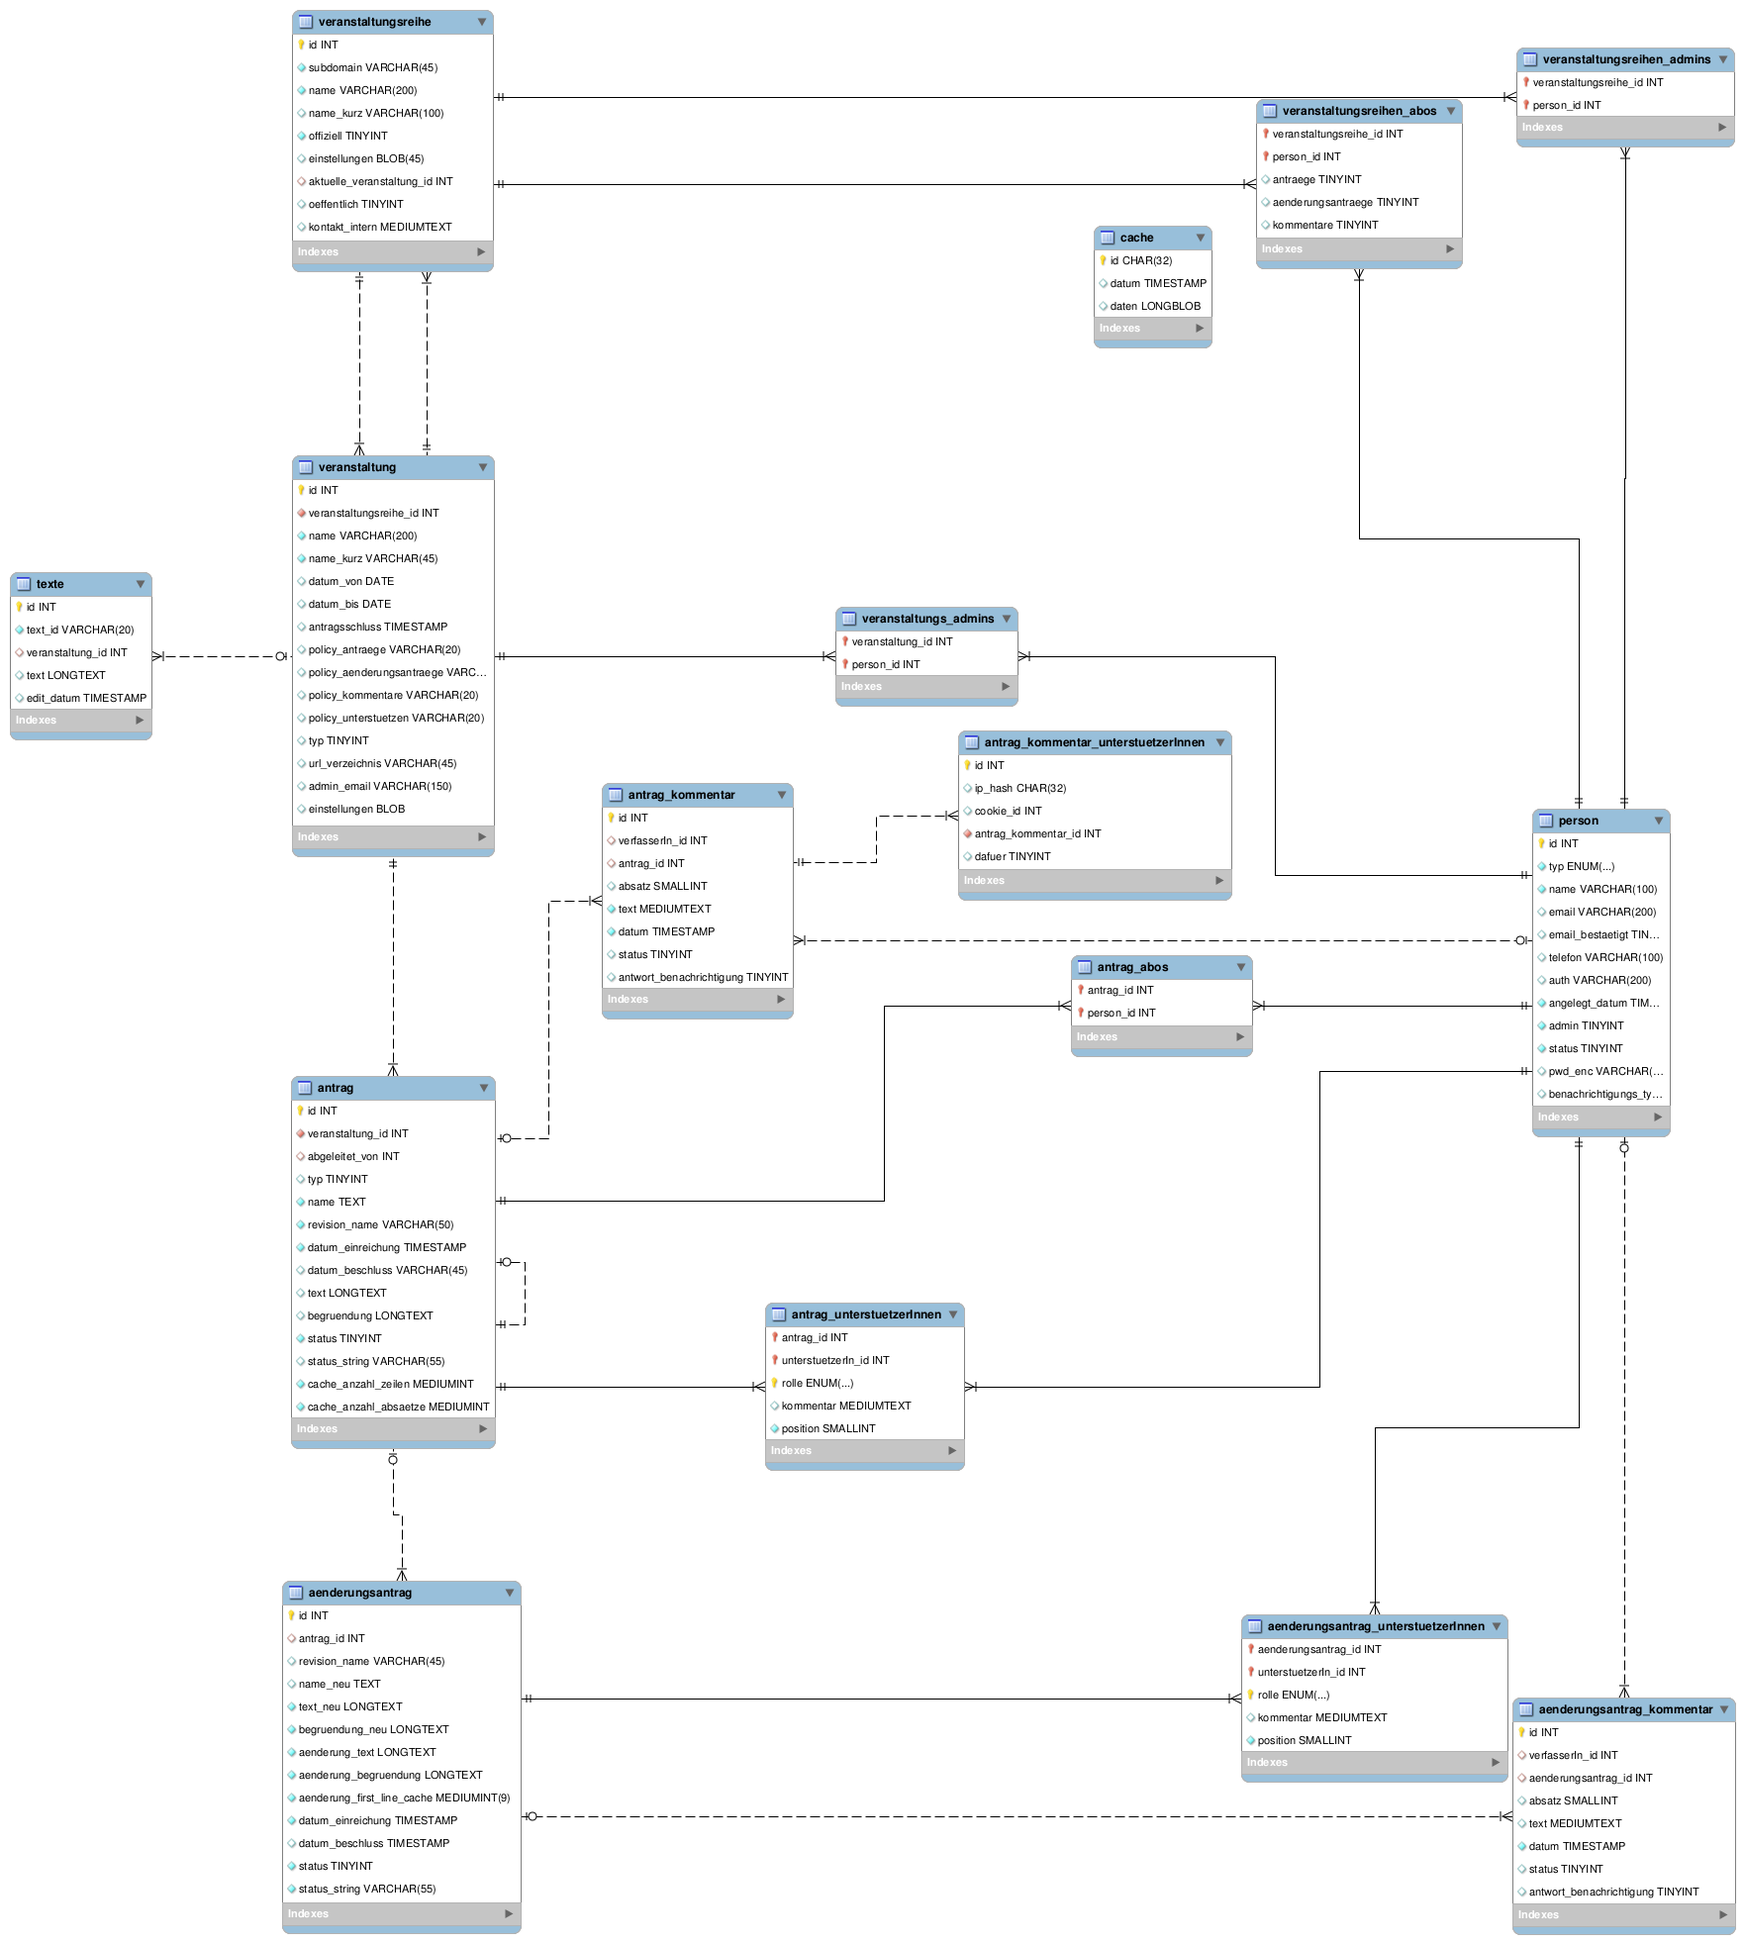
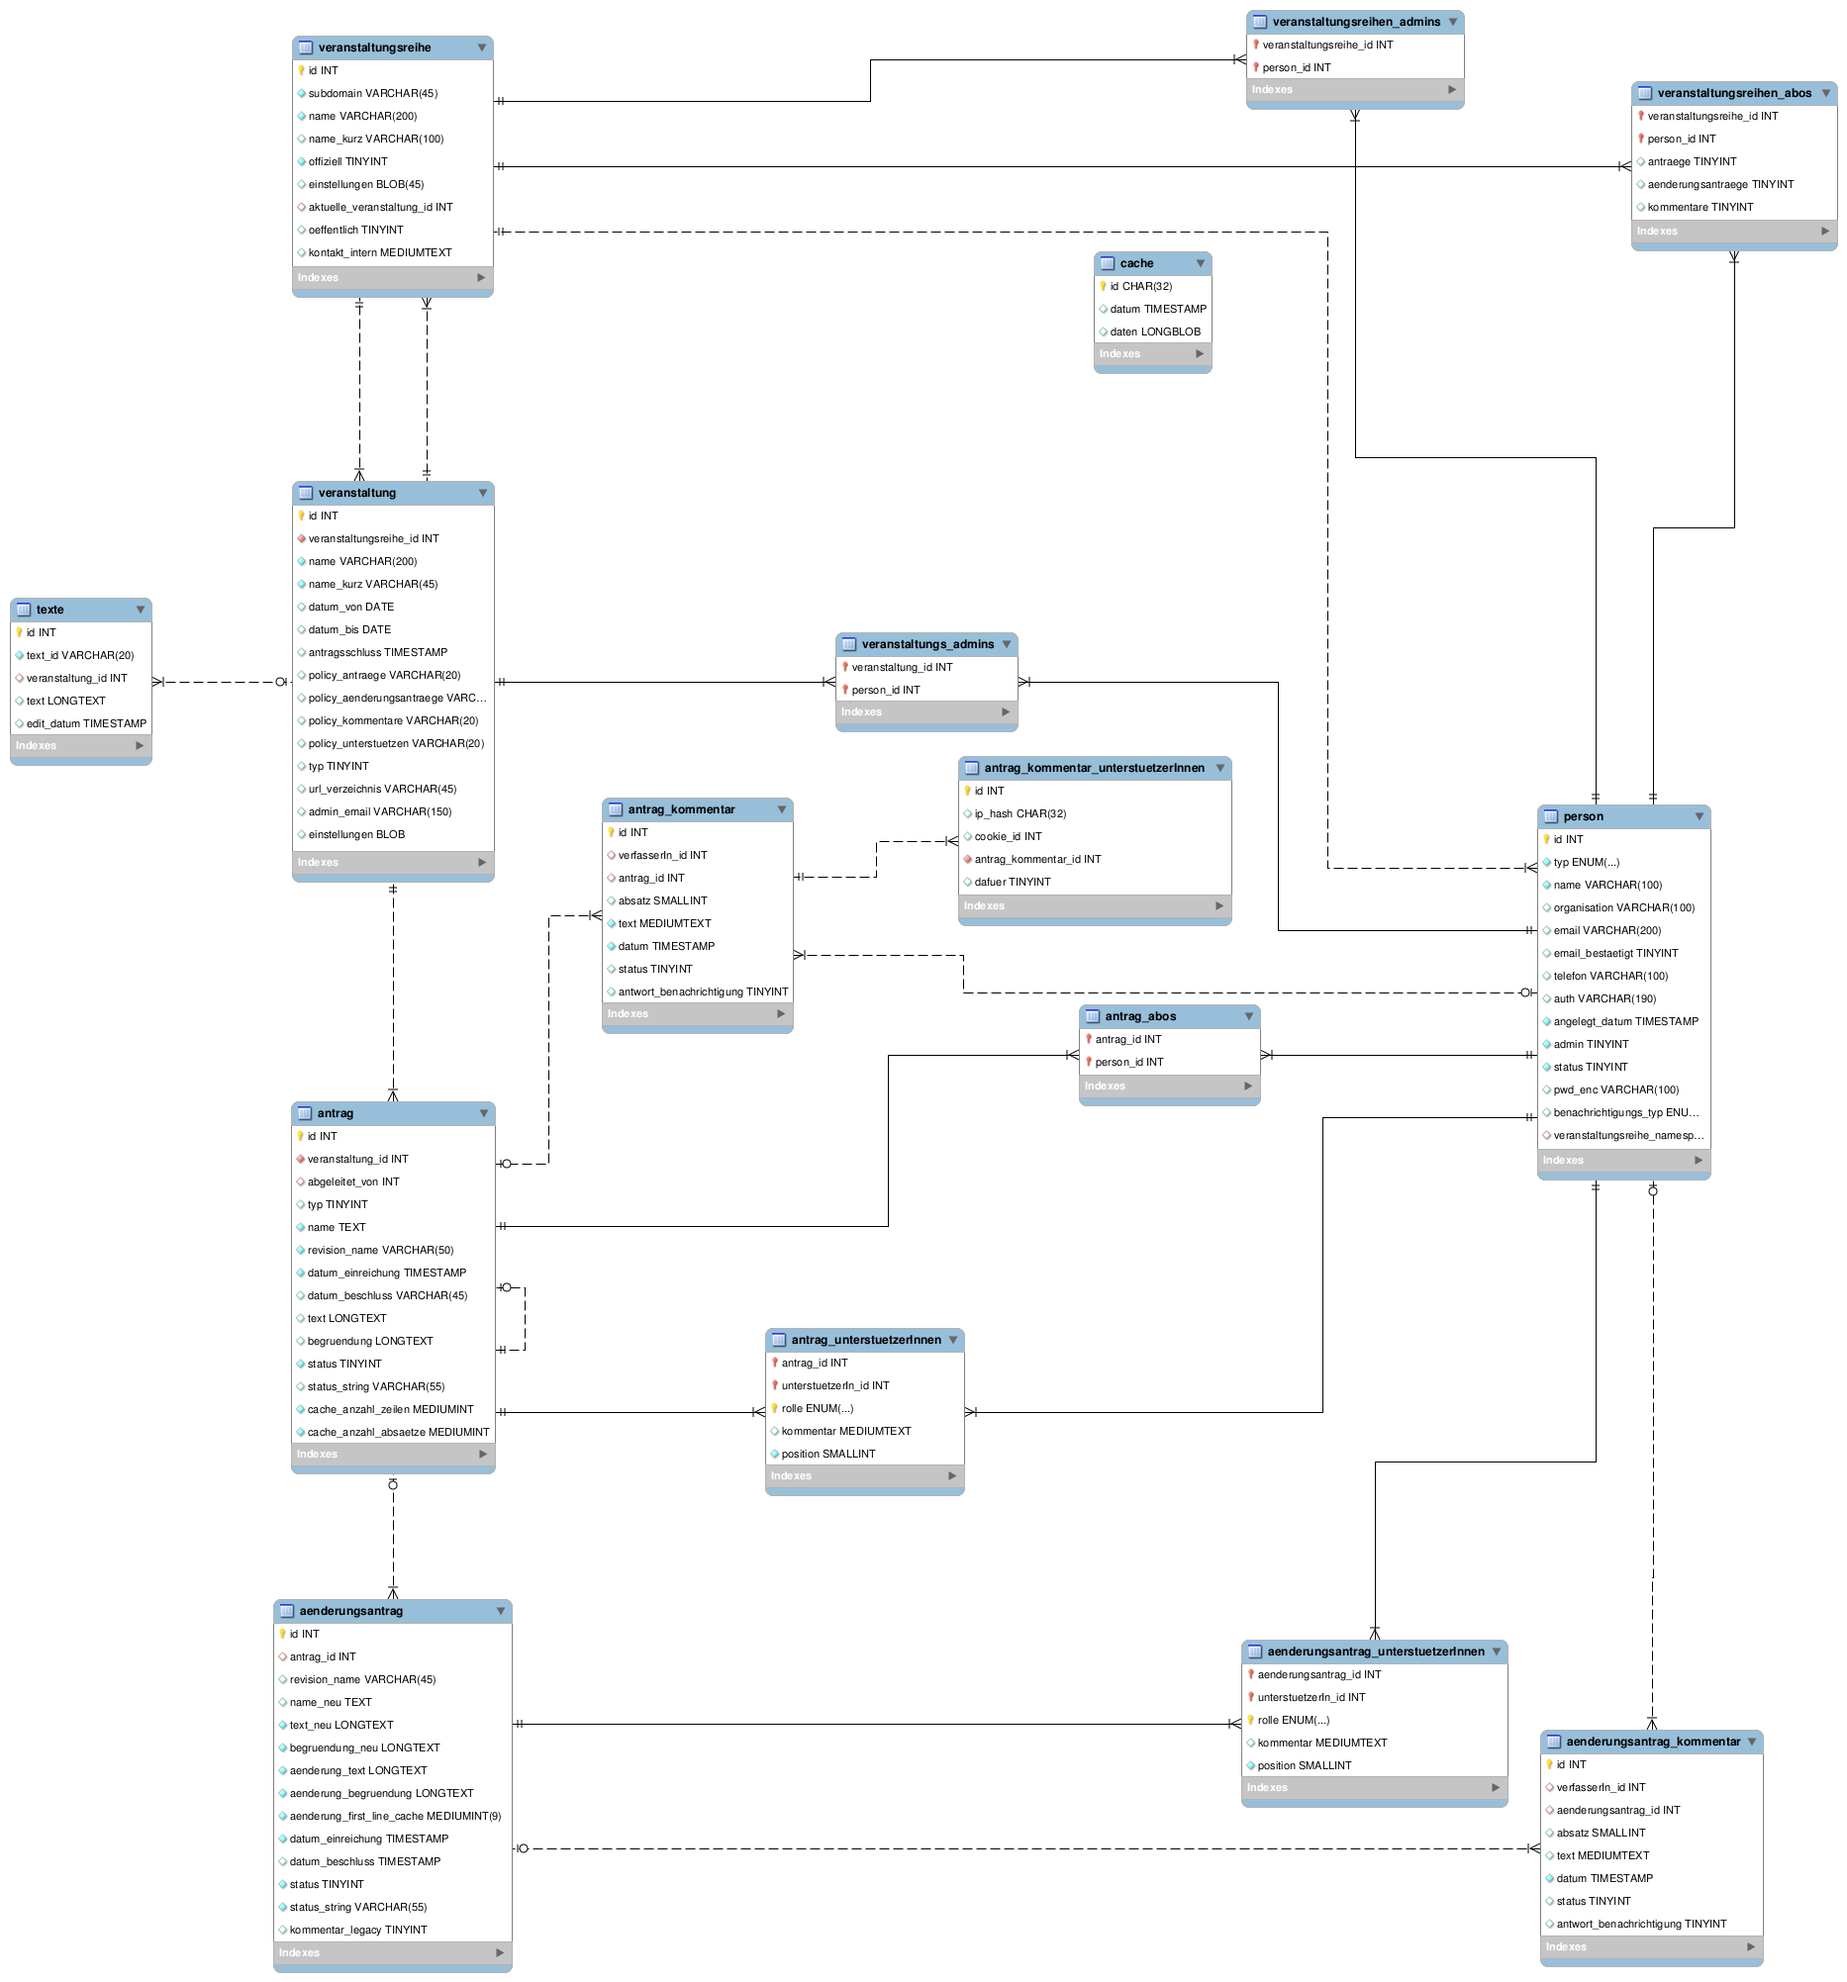
Neue Anzeige von Änderungsanträgen

diff --git a/protected/models/Aenderungsantrag.php b/protected/models/Aenderungsantrag.php
@@ -14,6 +14,7 @@
  * @property string $datum_beschluss
  * @property integer $status
  * @property string $status_string
+ * @property int $kommentar_legacy
  *
  * @property Antrag $antrag
  * @property AenderungsantragKommentar[] $aenderungsantragKommentare
@@ -64,7 +65,7 @@ class Aenderungsantrag extends IAntrag
 	{
 		return array(
 			array('text_neu, aenderung_text, datum_einreichung, status, status', 'required'),
-			array('antrag_id, status, aenderung_first_line_cache', 'numerical', 'integerOnly' => true),
+			array('antrag_id, status, aenderung_first_line_cache, kommentar_legacy', 'numerical', 'integerOnly' => true),
 			array('revision_name', 'length', 'max' => 45),
 			array('status_string', 'length', 'max' => 55),
 			array('name_neu, datum_beschluss', 'safe'),
@@ -116,6 +117,7 @@ class Aenderungsantrag extends IAntrag
 			'datum_beschluss'                    => Yii::t('app', 'Datum Beschluss'),
 			'status'                             => Yii::t('app', 'Status'),
 			'status_string'                      => Yii::t('app', 'Status String'),
+			'kommentar_legacy'                   => Yii::t('app', 'Altes Kommentarsystem'),
 			'antrag'                             => null,
 			'aenderungsantragKommentare'         => null,
 			'aenderungsantragUnterstuetzerInnen' => null,
@@ -152,6 +154,7 @@ class Aenderungsantrag extends IAntrag
 		$criteria->compare('datum_beschluss', $this->datum_beschluss, true);
 		$criteria->compare('status', $this->status);
 		$criteria->compare('status_string', $this->status_string, true);
+		$criteria->compare('kommentar_legacy', $this->kommentar_legacy, true);
 
 		return new CActiveDataProvider($this, array(
 			'criteria' => $criteria,
@@ -283,7 +286,7 @@ class Aenderungsantrag extends IAntrag
 	/**
 	 * @return array|AntragAbsatz[]
 	 */
-	public function getAntragstextParagraphs()
+	public function getAntragstextParagraphs_flat()
 	{
 		if (!is_null($this->absaetze)) return $this->absaetze;
 		$this->absaetze = array();
@@ -295,6 +298,28 @@ class Aenderungsantrag extends IAntrag
 		for ($i = 0; $i < count($arr["html"]); $i++) {
 			$html_plain       = HtmlBBcodeUtils::wrapWithTextClass($arr["html_plain"][$i]);
 			$this->absaetze[] = new AntragAbsatz($arr["html"][$i], $html_plain, $arr["bbcode"][$i], $this->id, $i, $komms, array());
+		}
+		return $this->absaetze;
+	}
+
+	/**
+	 * @return AenderungsantragAbsatz[]
+	 */
+	public function getAntragstextParagraphs_diff() {
+
+		$abs_alt = $this->antrag->getParagraphs();
+		$abs_neu = json_decode($this->text_neu);
+
+		$this->absaetze = array();
+
+		for ($i = 0; $i < count($abs_alt); $i++) {
+			if ($abs_neu[$i] == "") {
+				$this->absaetze[$i] = null;
+			} else {
+				$kommentare = array();
+				foreach ($this->aenderungsantragKommentare as $komm) if ($komm->absatz == $i) $kommentare[] = $komm;
+				$this->absaetze[] = new AenderungsantragAbsatz($abs_alt[$i]->str_bbcode, $abs_neu[$i], $this->id, $i, $kommentare);
+			}
 		}
 		return $this->absaetze;
 	}

diff --git a/protected/views/aenderungsantrag/anzeige_legacy.php b/protected/views/aenderungsantrag/anzeige_legacy.php
@@ -40,6 +40,7 @@ $html .= '<li class="zurueck">' . CHtml::link("Zurück zum Antrag", $this->creat
 
 $this->menus_html[] = $html;
 
+
 $rows = 10;
 $antragstellerInnen = $aenderungsantrag->getAntragstellerInnen();
 
@@ -137,10 +138,10 @@ if ($aenderungsantrag->antrag->veranstaltung->getEinstellungen()->ae_nummerierun
 		<?php
 		$dummy_komm = new AenderungsantragKommentar();
 
-		$absae = $aenderungsantrag->getAntragstextParagraphs_diff();
+		$absae = $aenderungsantrag->getAntragstextParagraphs_flat();
 
-		foreach ($absae as $i => $abs) if ($abs !== null) {
-			/** @var AenderungsantragAbsatz $abs */
+		foreach ($absae as $i => $abs) {
+			/** @var AntragAbsatz $abs */
 
 			$kommoffenclass = (!in_array($i, $kommentare_offen) ? "kommentare_closed_absatz" : "");
 
@@ -156,9 +157,7 @@ if ($aenderungsantrag->antrag->veranstaltung->getEinstellungen()->ae_nummerierun
 				</ul>
 
 				<div class="absatz_text orig antragabsatz_holder antrags_text_holder_nummern">
-					<div class="text">
-						<?php echo $abs->getDiffHTML(); ?>
-					</div>
+					<?php echo $abs->str_html; ?>
 				</div>
 				<?php
 
@@ -247,7 +246,40 @@ if ($aenderungsantrag->antrag->veranstaltung->getEinstellungen()->ae_nummerierun
 			</div>
 		<?php
 		}
+		//echo HtmlBBcodeUtils::bbcode2html($aenderungsantrag->aenderung_text);
 		?>
+		<div style="text-align: center;" id="antrags_diff_opener">
+			<a href="#"
+			   onClick="$('#antrags_diff_holder').show(); $('#antrags_diff_opener').hide(); $('#antrags_diff_closer').show(); return false;"><i
+					class="icon-down-open"></i> Antragstext mit Änderungen anzeigen</a>
+		</div>
+		<div style="text-align: center; display: none;" id="antrags_diff_closer">
+			<a href="#"
+			   onClick="$('#antrags_diff_holder').hide(); $('#antrags_diff_opener').show(); $('#antrags_diff_closer').hide(); return false;"><i
+					class="icon-up-open"></i> Antragstext mit Änderungen anzeigen</a>
+		</div>
+		<div id="antrags_diff_holder" class="content" style="display: none;">
+			<?php
+			$abs_alt = $aenderungsantrag->antrag->getParagraphs();
+			$abs_neu = json_decode($aenderungsantrag->text_neu);
+
+			$letztes_leer = false;
+			foreach ($abs_alt as $i => $abs) {
+				if (isset($abs_neu[$i]) && $abs_neu[$i] != "") {
+					$letztes_leer = false;
+					echo "<div class='row-fluid'>";
+					/** @var AntragAbsatz $abs */
+					echo DiffUtils::renderBBCodeDiff2HTML($abs->str_bbcode, $abs_neu[$i]);
+					echo "</div>\n";
+				} else {
+					if (!$letztes_leer) {
+						$letztes_leer = true;
+						echo "<div class='absatz_ueberspringen'>.<br>.<br>.</div>";
+					}
+				}
+			}
+			?>
+		</div>
 	</div>
 
 	<div class="begruendungs_text_holder">

diff --git a/protected/controllers/AenderungsantragController.php b/protected/controllers/AenderungsantragController.php
@@ -191,7 +191,7 @@ class AenderungsantragController extends AntragsgruenController
 			}
 		}
 		if ($kommentar_id > 0) {
-			$abs = $aenderungsantrag->getAntragstextParagraphs();
+			$abs = $aenderungsantrag->getAntragstextParagraphs_flat();
 			foreach ($abs as $ab) {
 				/** @var AntragAbsatz $ab */
 				foreach ($ab->kommentare as $komm) if ($komm->id == $kommentar_id) $kommentare_offen[] = $ab->absatz_nr;
@@ -216,7 +216,7 @@ class AenderungsantragController extends AntragsgruenController
 			foreach ($aenderungsantrag->aenderungsantragUnterstuetzerInnen as $unt) if ($unt->person->id == Yii::app()->user->getState("person_id")) $support_status = $unt->rolle;
 		}
 
-		$this->render("anzeige", array(
+		$anzeige_opts = array(
 			"aenderungsantrag" => $aenderungsantrag,
 			"edit_link"        => $aenderungsantrag->binInitiatorIn(),
 			"admin_edit"       => (Yii::app()->user->getState("role") == "admin" ? "/admin/aenderungsantraege/update/id/" . $aenderungsantrag_id : null),
@@ -227,7 +227,13 @@ class AenderungsantragController extends AntragsgruenController
 			"js_protection"    => $js_protection,
 			"support_status"   => $support_status,
 			"sprache"          => $aenderungsantrag->antrag->veranstaltung->getSprache(),
-		));
+		);
+
+		if ($aenderungsantrag->kommentar_legacy) {
+			$this->render("anzeige_legacy", $anzeige_opts);
+		} else {
+			$this->render("anzeige", $anzeige_opts);
+		}
 	}
 
 	/**

diff --git a/protected/models/AenderungsantragAbsatz.php b/protected/models/AenderungsantragAbsatz.php
@@ -1,0 +1,51 @@
+<?php
+
+
+class AenderungsantragAbsatz
+{
+
+	/**
+	 * @var int
+	 */
+	public $aenderungsantrag_id;
+	/**
+	 * @var int
+	 */
+	public $absatz_nr;
+
+	/**
+	 * @var array|AenderungsantragKommentar[]
+	 */
+	public $kommentare;
+
+	/**
+	 * @var string
+	 */
+	public $str_bbcode_vorher;
+	public $str_bbcode_nachher;
+
+	/**
+	 * @param string $str_bbcode_vorher
+	 * @param string $str_bbcode_nachher
+	 * @param int $aenderungsantrag_id
+	 * @param int $absatz_nr
+	 * @param array|AenderungsantragKommentar[] $kommentare
+	 */
+	function __construct($str_bbcode_vorher, $str_bbcode_nachher, $aenderungsantrag_id, $absatz_nr, $kommentare)
+	{
+		$this->str_bbcode_nachher  = $str_bbcode_nachher;
+		$this->str_bbcode_vorher   = $str_bbcode_vorher;
+		$this->absatz_nr           = $absatz_nr;
+		$this->aenderungsantrag_id = $aenderungsantrag_id;
+		$this->kommentare          = array();
+		foreach ($kommentare as $komm) if ($komm->absatz == $absatz_nr && $komm->istSichtbarCurrUser()) $this->kommentare[] = $komm;
+	}
+
+	/**
+	 * @return string
+	 */
+	public function getDiffHTML() {
+		$str = DiffUtils::renderBBCodeDiff2HTML($this->str_bbcode_vorher, $this->str_bbcode_nachher, false);
+		return $str;
+	}
+}

diff --git a/protected/views/aenderungsantrag/pdf.php b/protected/views/aenderungsantrag/pdf.php
@@ -7,7 +7,7 @@
  */
 
 // Muss am Anfang stehen, ansonsten zerhaut's die Zeilenumbrüche; irgendwas mit dem internen Encoding
-$absae = $model->getAntragstextParagraphs();
+$absae = $model->getAntragstextParagraphs_flat();
 
 // create new PDF document
 $pdf = new TCPDF(PDF_PAGE_ORIENTATION, PDF_UNIT, PDF_PAGE_FORMAT, true, 'UTF-8', false);

diff --git a/protected/components/views/aenderungsantrag_pdf.php b/protected/components/views/aenderungsantrag_pdf.php
@@ -145,7 +145,7 @@ if ($diff_ansicht) {
 
 	$linenr = 1;
 
-	$absae = $aenderungsantrag->getAntragstextParagraphs();
+	$absae = $aenderungsantrag->getAntragstextParagraphs_flat();
 
 	foreach ($absae as $i => $abs) {
 		/** @var AntragAbsatz $abs */

diff --git a/History.md b/History.md
@@ -1,3 +1,8 @@
+2.2.0 - 2014-?????
+* Accounts, die nur für eine Veranstaltungsreihe gültig sind
+* Berechtigungs-Alternative: min. 5 AntragstellerInnen
+* Änderungsanträge werden standardmäßig in der "Diff-Ansicht" dargestellt. Für jeden "Ersetze [x] durch [y]"-Block (der jetzt "Ändere den Absatz wie folgt: [x]" heißt) gibt es jetzt genau einen Kommentar-Button, statt vier wie bisher.
+
 2.1.2 - 2014-08-17
 ==================
 
